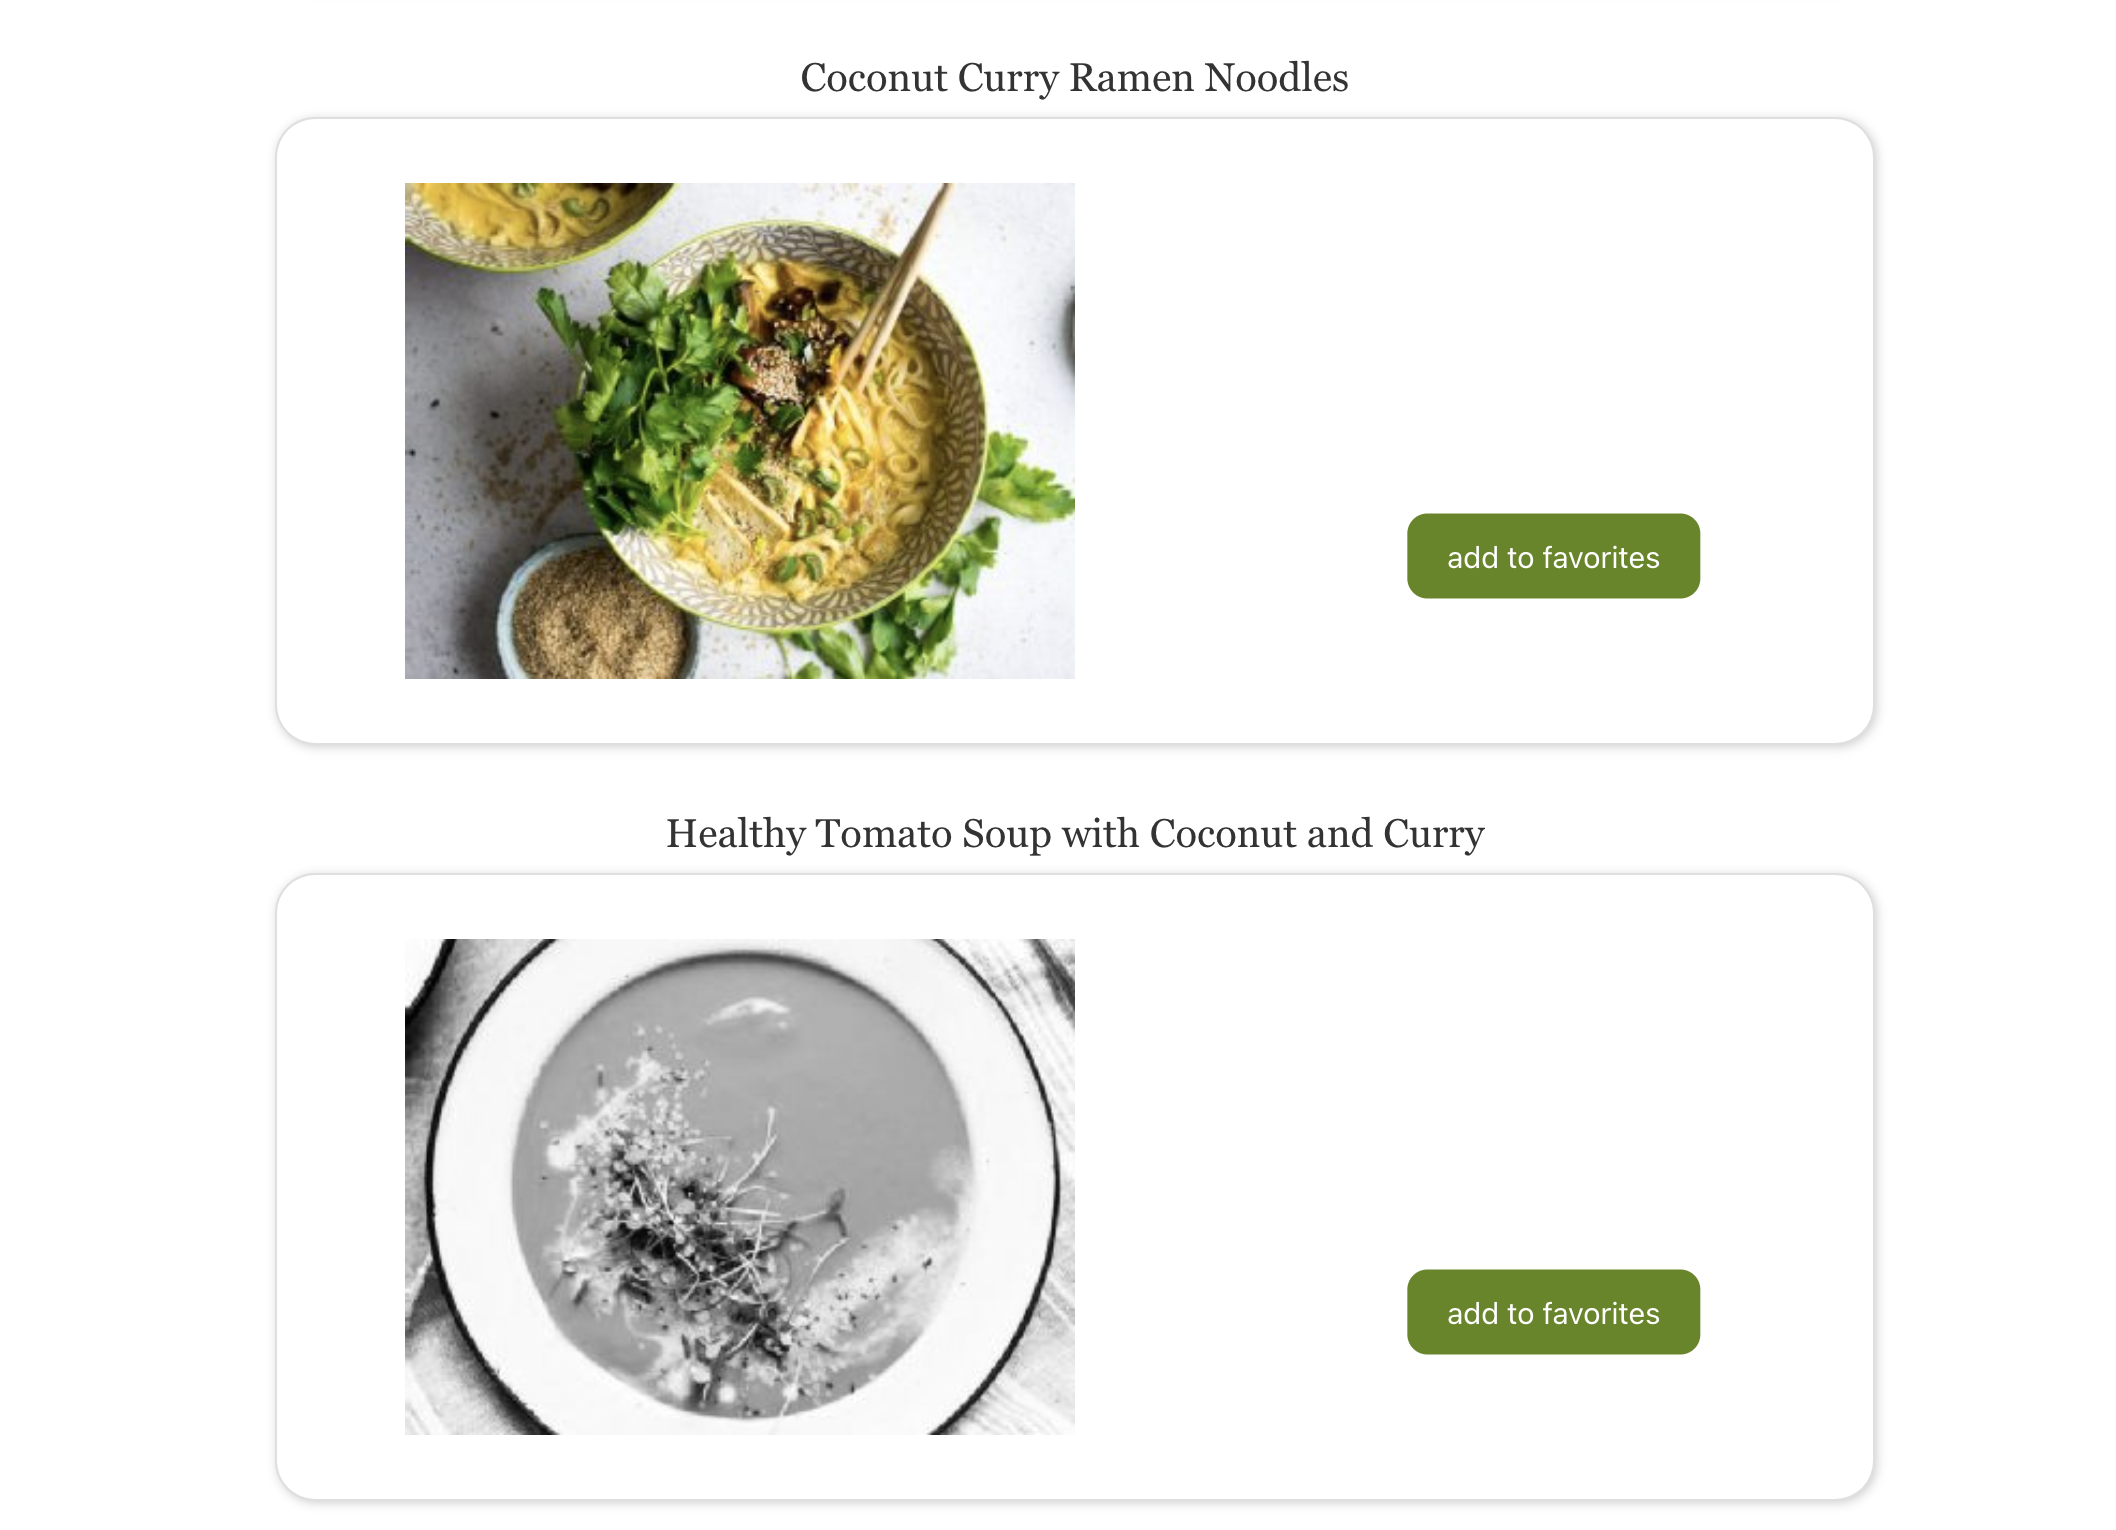
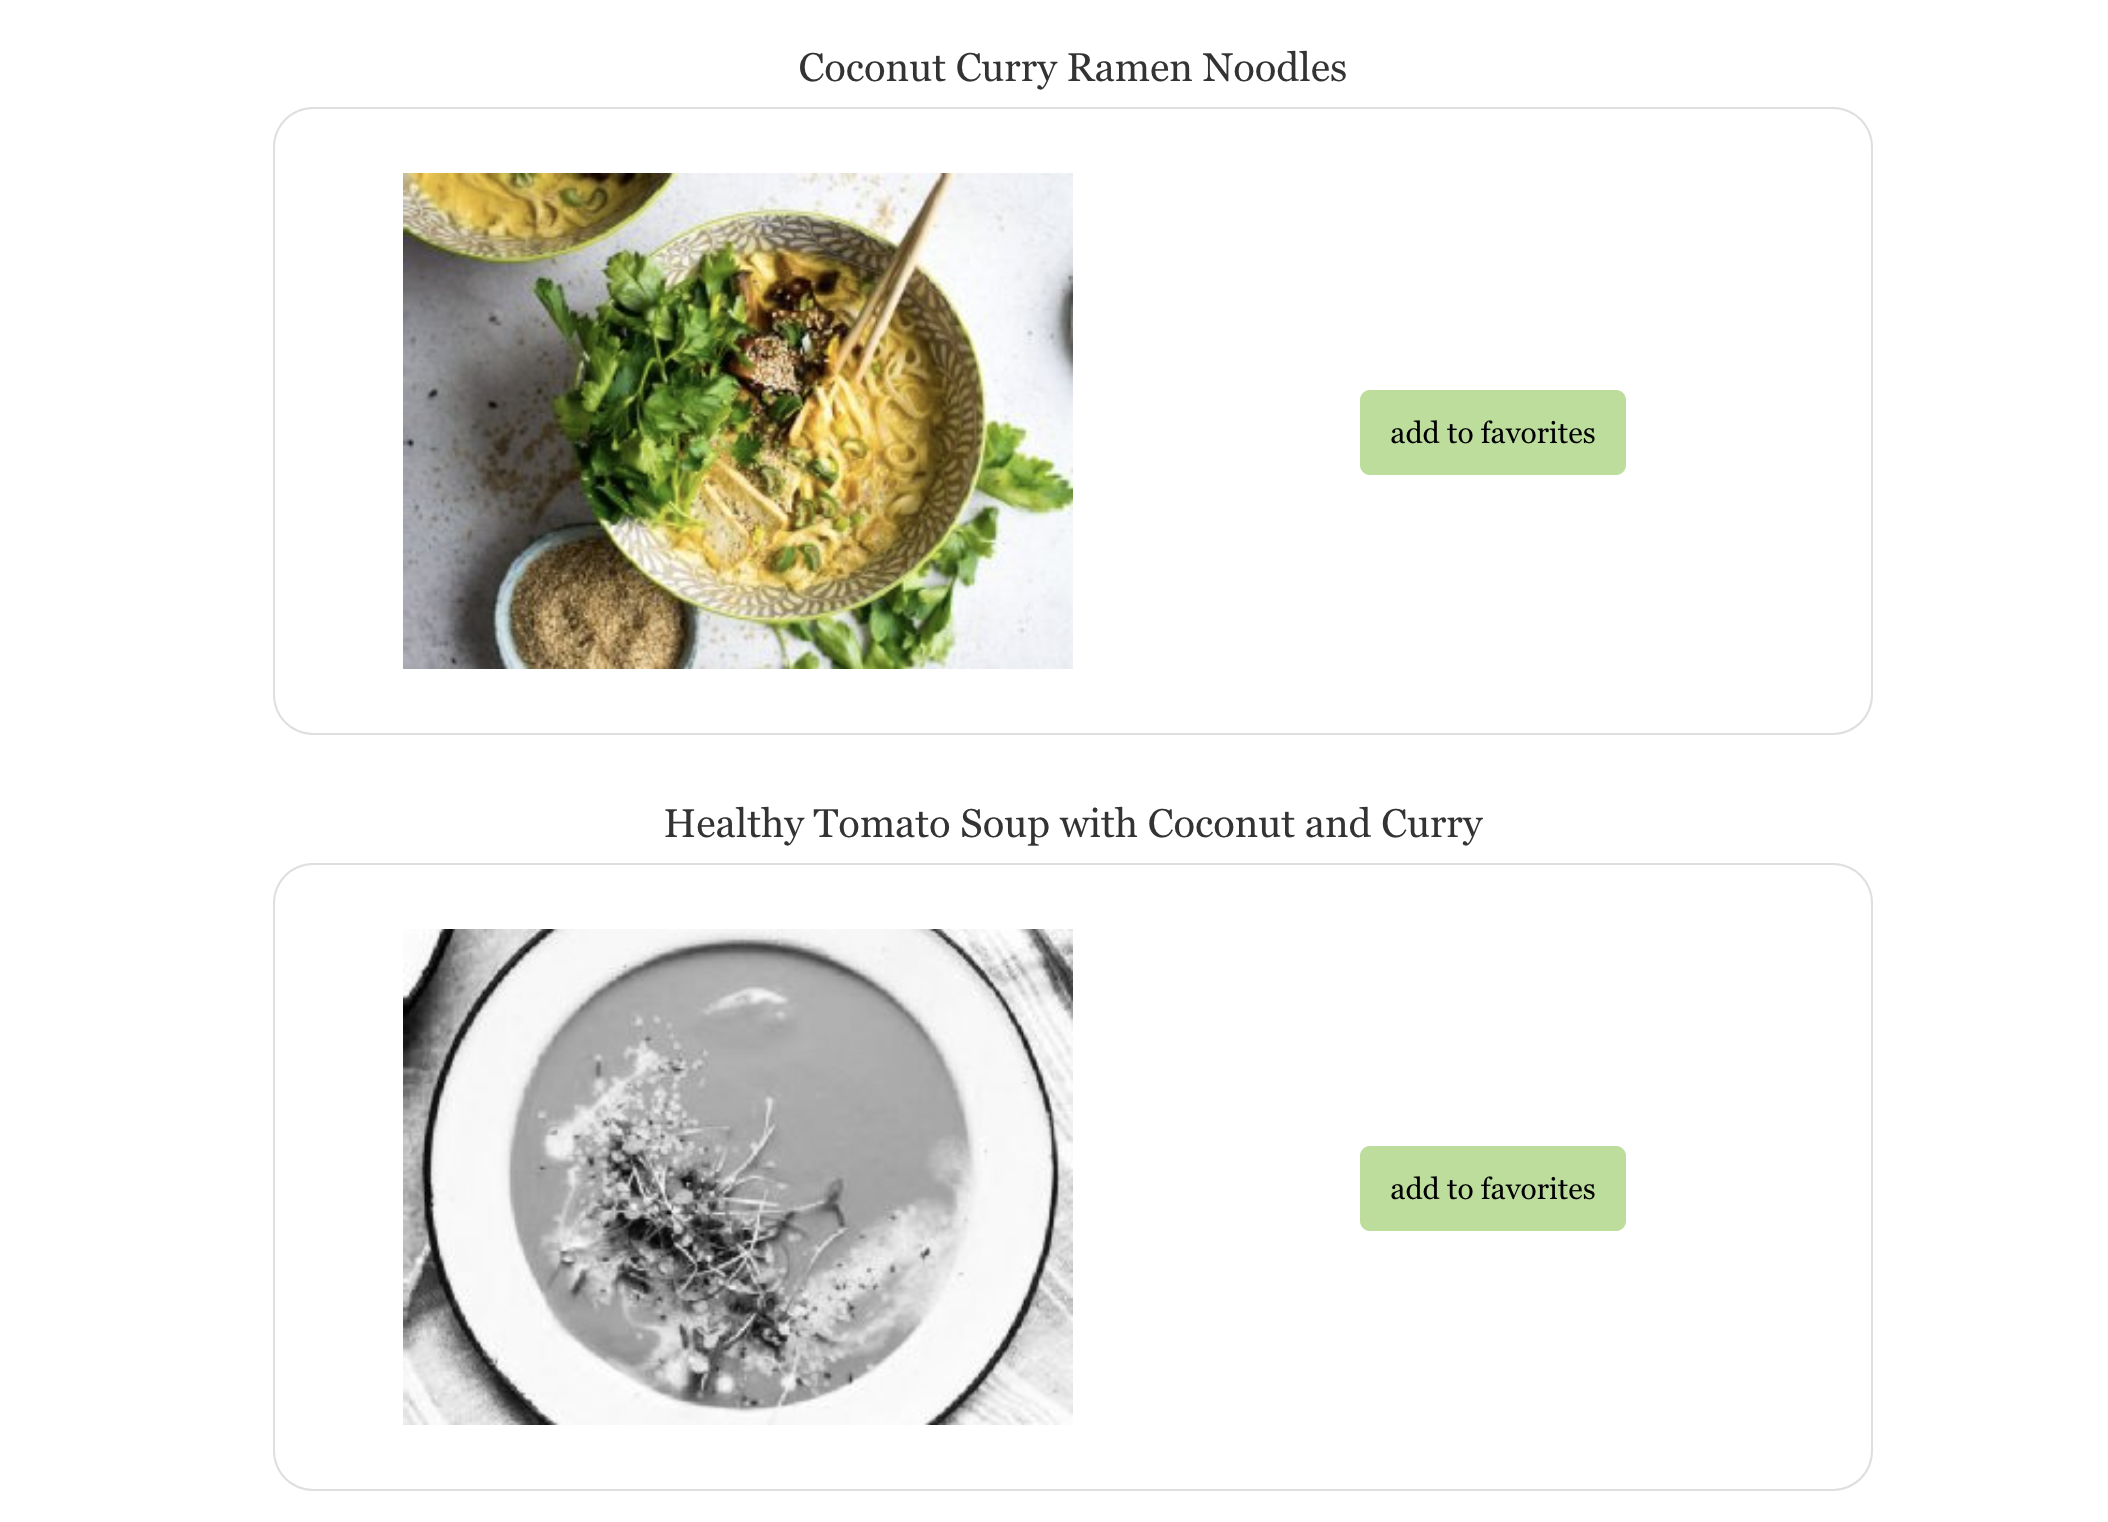
Small UI improvements

diff --git a/client/src/App.css b/client/src/App.css
@@ -3,7 +3,6 @@ body {
   padding: 5px;
   background-color: rgb(255, 255, 255);
   color: rgb(51, 51, 51);
-  background-color: rgba(255, 255, 255, 0.85);
   font-family: Georgia, "Times New Roman", Times, serif;
 }
 
@@ -11,7 +10,7 @@ h1 {
   text-align: center;
   font-weight: 900;
   font-size: 9rem;
-  padding: 20px;
+  padding: 10px;
 }
 
 h2 {
@@ -54,7 +53,8 @@ h2 {
 }
 
 .button {
-  background-color: rgba(255, 255, 255, 0.75);
+  background-color: rgb(255, 255, 255);
+  border: 1px solid #ddd;
   padding: 1rem 2rem;
   border-radius: 20px;
   font-size: 16px;
@@ -62,7 +62,7 @@ h2 {
 }
 
 .button:hover {
-  background-color: rgba(245, 245, 245, 0.85);
+  background-color: rgba(247, 247, 247, 0.85);
 }
 
 .card--list {
@@ -98,32 +98,24 @@ h2 {
 
 .btn--save {
   position: absolute;
-  top: 60%;
-  left: 80%;
-  transform: translate(-50%, -50%);
-  -ms-transform: translate(-50%, -50%);
-  background-color: rgb(96, 136, 15);
-  color: white;
+  top: 45%;
+  left: 68%;
+  background-color: rgb(179, 223, 149);
   font-size: 15px;
   padding: 10px 15px;
   border: none;
-  border-radius: 10px;
+  border-radius: 5px;
 }
 
 .btn--save:hover {
-  background-color: rgb(84, 117, 17);
-}
-
-.btn--view:hover {
-  background-color: rgb(84, 117, 17);
+  /* background-color: rgb(84, 117, 17); */
+  background-color: rgb(166, 224, 127);
 }
 
 .btn--delete {
   position: absolute;
-  transform: translate(-50%, -50%);
-  -ms-transform: translate(-50%, -50%);
-  top: 50%;
-  left: 93%;
+  top: 35%;
+  left: 90%;
   font-size: 11px;
   padding: 4px 10px;
   border-radius: 10px;

diff --git a/client/src/components/Favorites.js b/client/src/components/Favorites.js
@@ -49,31 +49,15 @@ export default function Favorites() {
   };
 
   return (
-    <div className="card text-center card--list">
-      <div
-        className="card-header card--header"
-        style={{ borderRadius: "10px" }}
-      >
-        Favorite Recipes
-      </div>
+    <div className="card--list text-center ">
       {favorites.map((favorite, index) => {
         return (
           <div className="card" key={index}>
             <h2 className="card-title" style={{ margin: "10px" }}>
-              {favorite.title}{" "}
+              {favorite.title}
             </h2>
-            <a href={favorite.source_url}>
-              <button
-                type="button"
-                className="btn btn-outline-dark"
-                style={{
-                  alignContent: "center",
-                  margin: "30px",
-                  borderRadius: "10px",
-                }}
-              >
-                view recipe
-              </button>
+            <a href={favorite.source_url} className="link-secondary">
+                link to recipe
             </a>
             <button
               type="button"

diff --git a/client/src/components/Search.js b/client/src/components/Search.js
@@ -7,14 +7,13 @@ export default function Search() {
 
   const searchFood = async (e) => {
     e.preventDefault();
+
     fetch("/api/vegist/recipes", {
       method: "POST",
       headers: {
         "Content-Type": "application/json",
       },
-      body: JSON.stringify({
-        cuisine: cuisine,
-      }),
+      body: JSON.stringify({ cuisine: cuisine }),
     })
       .then((res) => res.json())
       .then((data) => {

diff --git a/client/src/index.css b/client/src/index.css
@@ -1,3 +1,7 @@
+/* @tailwind base;
+@tailwind components;
+@tailwind utilities; */
+
 body {
   margin: 0;
   font-family: -apple-system, BlinkMacSystemFont, 'Segoe UI', 'Roboto', 'Oxygen',

diff --git a/client/tailwind.config.js b/client/tailwind.config.js
@@ -1,0 +1,9 @@
+module.exports = {
+  content: [
+    "./src/**/*.{js,jsx,ts,tsx}",
+  ],
+  theme: {
+    extend: {},
+  },
+  plugins: [],
+}

diff --git a/client/postcss.config.js b/client/postcss.config.js
@@ -1,0 +1,6 @@
+module.exports = {
+  plugins: {
+    tailwindcss: {},
+    autoprefixer: {},
+  },
+}

diff --git a/README.md b/README.md
@@ -18,6 +18,8 @@ This is a full-stack MVP project that was build using React, Node.js, Express, a
 
 - `cd client` and run `yarn` install dependencies related to React.
 
+- Run `npm install react-router-dom` to install React Router.
+
 ### Database
 
 - Create `.env` file in project directory and add:
@@ -25,13 +27,21 @@ This is a full-stack MVP project that was build using React, Node.js, Express, a
 ```
 DB_NAME=vegist
 DB_PASS=YOUR_PASSWORD
-API_KEY=YOUR_API_KEY
 ```
 - Type `mysql -u root -p` to access the MySQL CLI using your password.
 
 - In the MySQL CLI, type `create database vegist;` to create a database in MySQL.
 
 - In the MySQL CLI, type `create table favorites (id int not null auto_increment, title varchar(255), source_url varchar(255), primary key (id));` to create a table favorites, and add the columns.
+
+### API
+
+- Generate and save API key in `.env` file in project directory:
+
+```
+API_KEY=YOUR_API_KEY
+```
+_Resource: https://spoonacular.com/food-api_
 
 ### Development Servers
 
@@ -40,17 +50,13 @@ API_KEY=YOUR_API_KEY
 - Test client with: `http://localhost:3000`
 - Test API with: `http://localhost:5000/api`
   
-## Database Schema  
+## MySQL DB Schema  
 
 ![DB Schema](images/db_schema.png)
 
 ## API Routes Design
 
 ![API Routes](images/API_routes.png)
-
-## Resources
-
-API: https://spoonacular.com/food-api
 
 ## Notes
 
